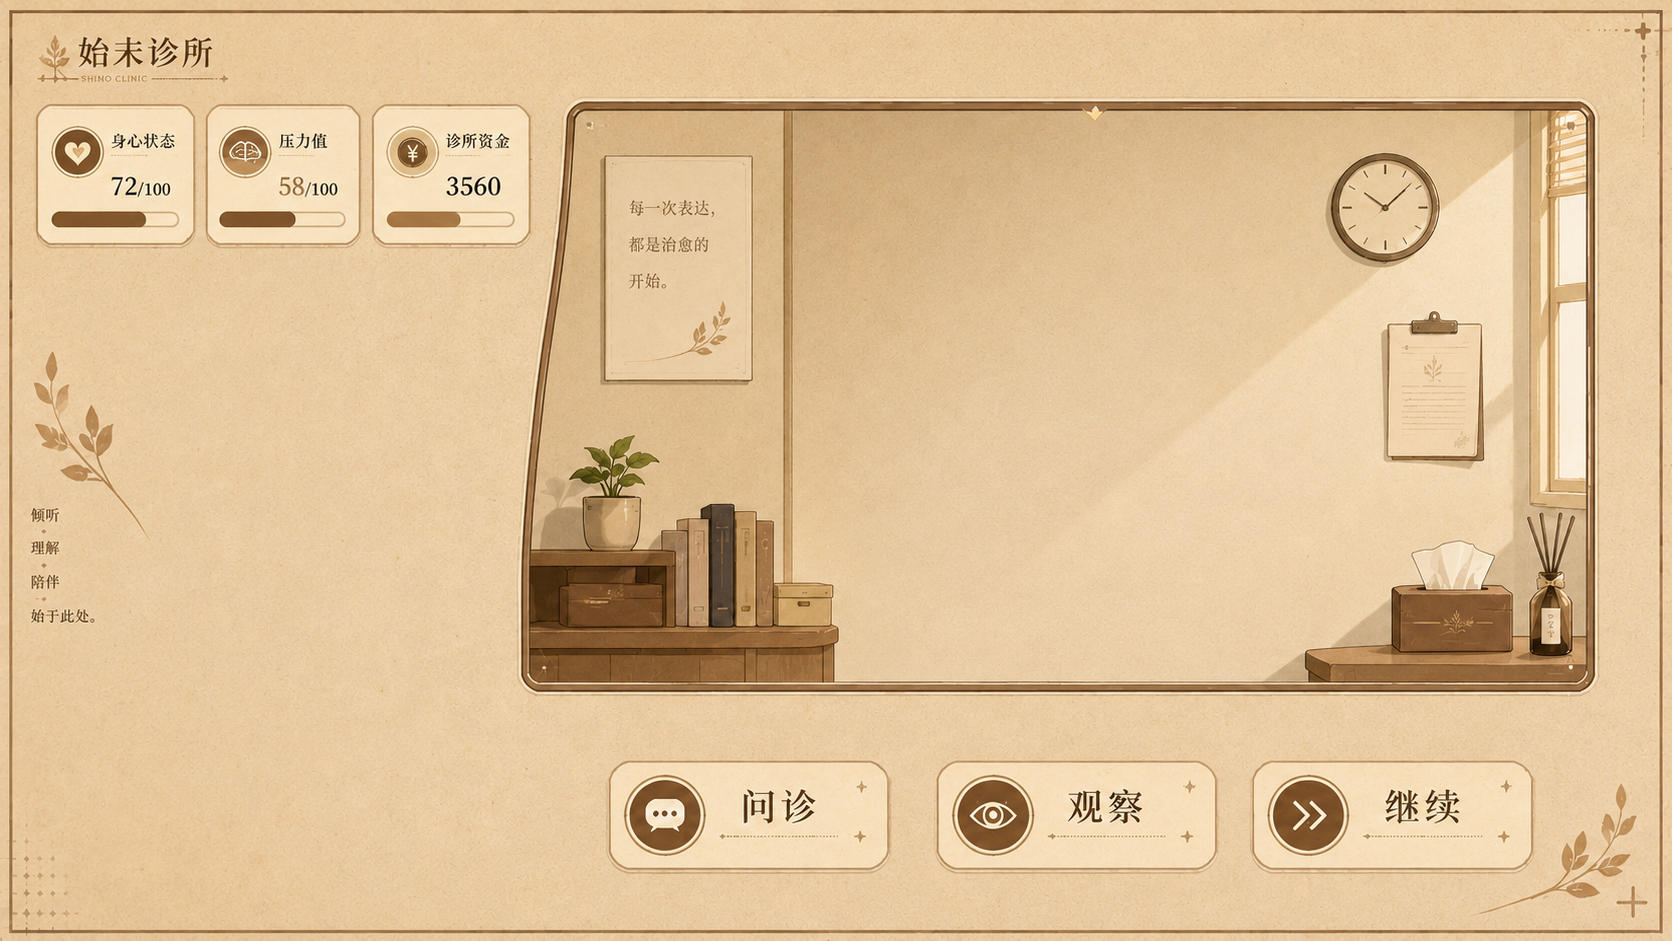
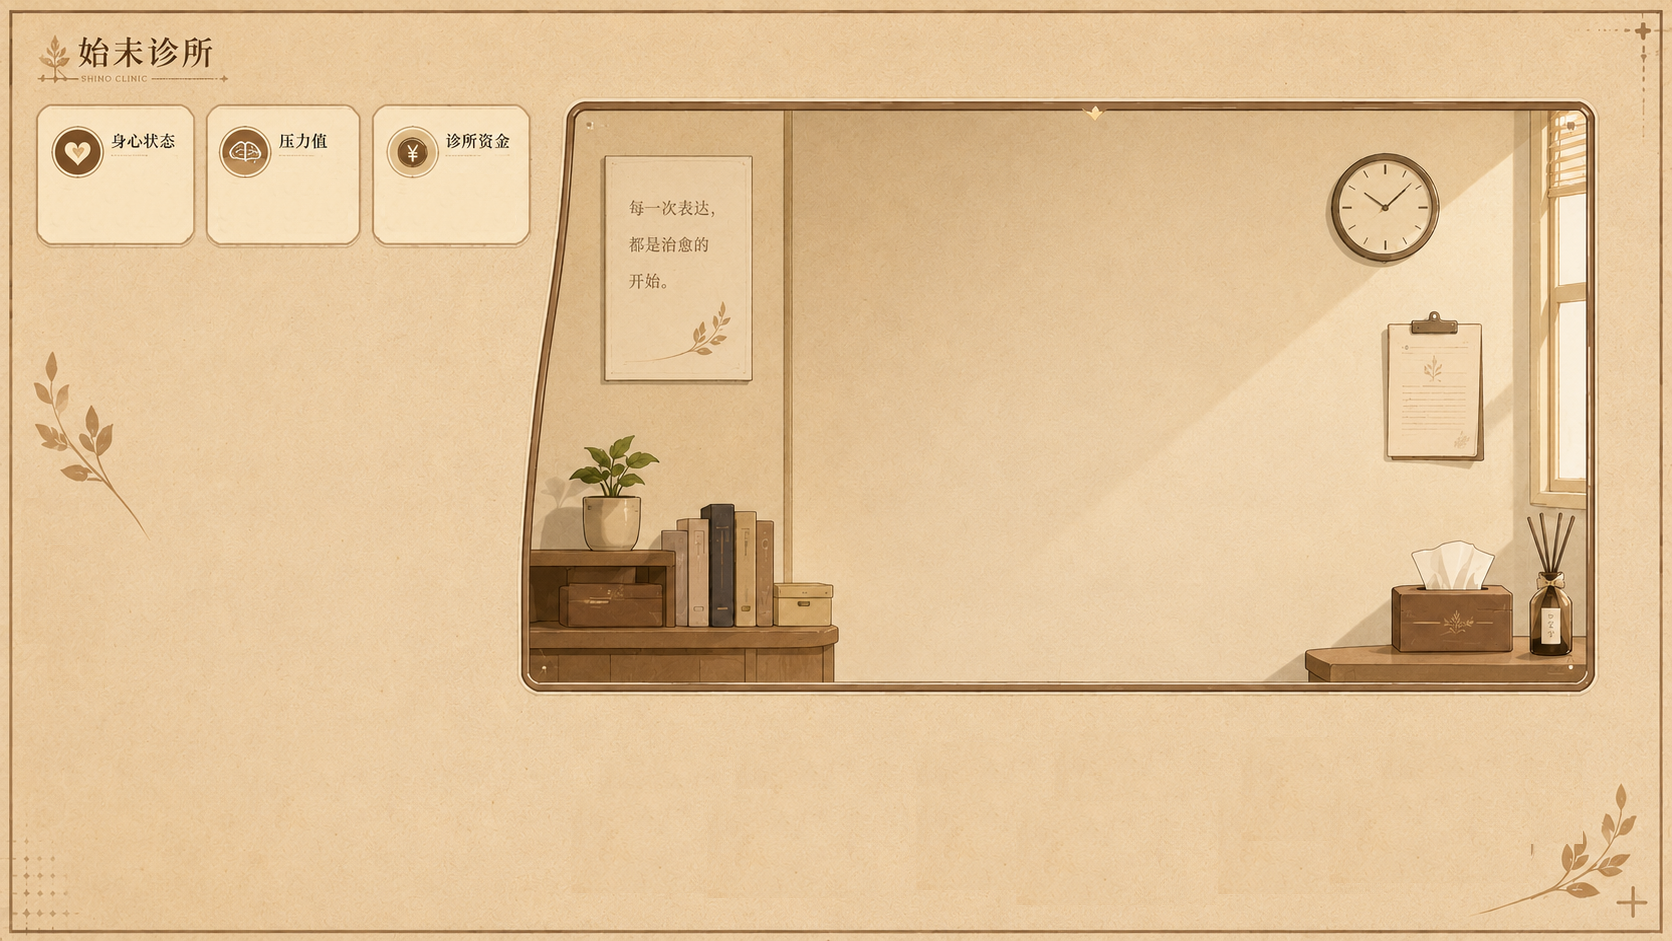
初版对话

diff --git a/devlog.md b/devlog.md
@@ -1,0 +1,33 @@
+# 《始末诊所》开发日志
+
+## 2026-06-12
+
+### 今日完成
+
+- 完成全局 SceneManager 初版
+- 使用 ColorRect + AnimationPlayer 实现黑屏过渡
+- 将 SceneManager 设置为 Autoload，全局可调用
+- 修复透明 FadeRect 遮挡按钮的问题
+
+### 遇到的问题
+
+透明的 ColorRect 虽然看不见，但仍然会挡住按钮点击。
+
+### 解决方法
+
+将 FadeRect 的 Mouse Filter 设置为 Ignore。
+
+
+
+
+## 2026-06-14
+
+- 初步完成病人的esource结构，选择树状直接嵌入选项与对话
+- 初版对话节点的Resource结构
+- 初版对话选项、单次对话的Resource结构
+- 更改main_clinic的背景
+- 初步实现对话显示
+
+### 遇到的问题
+
+文本需要自动换行、没有接入病人的肖像、没有对话左右角色的区分，另外主角的对话似乎现在也是嵌在病人里的，是否需要调整结构还需要思考，需要更多完善。